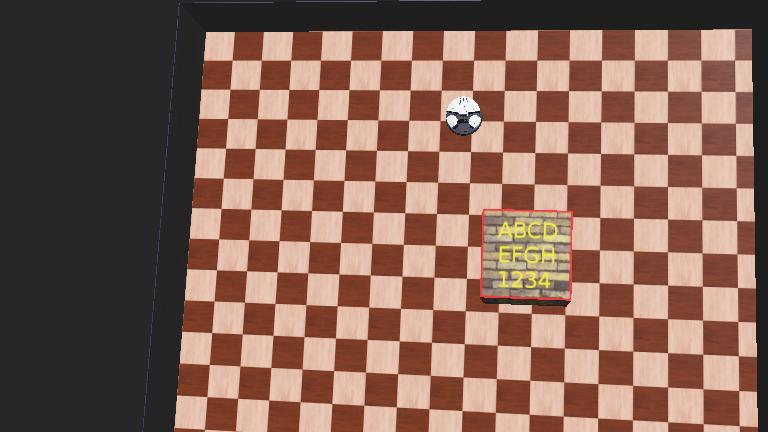
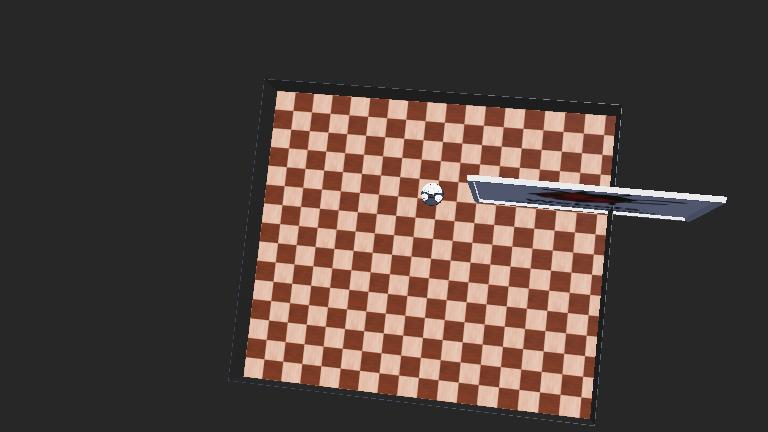
webots changes

diff --git a/controllers/my_controller/my_controller.py b/controllers/my_controller/my_controller.py
@@ -32,7 +32,7 @@ v_x, v_y, omega = 0.0, 0.0, 0.0
 while robot.step(time_step) != -1:
     # Read keyboard inputs
     range_image=lidar.getRangeImage()
-#    print(len(range_image))
+    print("--------------------")
     print("{}".format(range_image))
     v_x, v_y, omega = 0.0, 0.0, 0.0  # Stop when no key is pressed
 

diff --git a/controllers/supervisor_controller/supervisor_controller.py b/controllers/supervisor_controller/supervisor_controller.py
@@ -17,5 +17,5 @@ while robot.step(TIME_STEP) != -1:
   # [CODE PLACEHOLDER 2]
   if i == 0:
       new_value = [2.5, 0, 0]
-      translation_field.setSFVec3f(new_value)
+#      translation_field.setSFVec3f(new_value)
   i += 1
